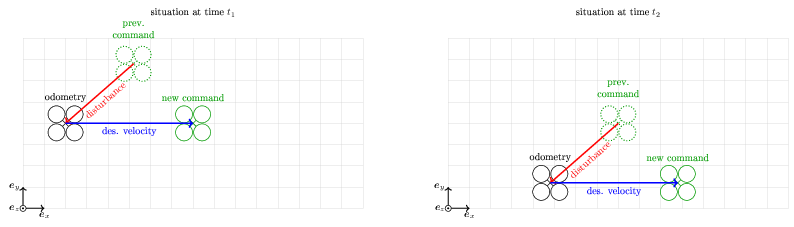
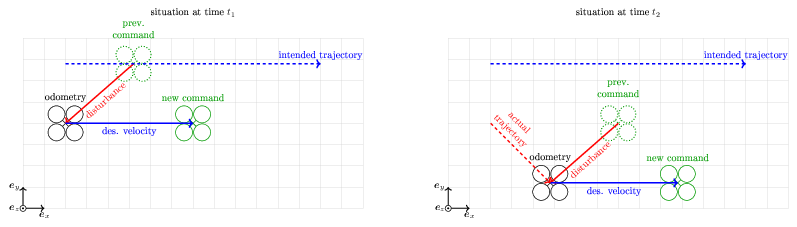
writing up the command setpoint frame problem

diff --git a/docs/system/fig/src/setpoint_frame_fig2.tex b/docs/system/fig/src/setpoint_frame_fig2.tex
@@ -94,6 +94,8 @@
     \node [align=center] at ($ (mo1) + (0, 0.3) $) {odometry};
     \node [green!60!black, align=center] at ($ (mc1) + (0, 0.4) $) {prev.\\command};
     \node [align=center, green!60!black] at ($ (mn1) + (0, 0.3) $) {new command};
+
+    \draw [blue, dashed, very thick, ->] (0.5, 1.7) -- ++(3, 0) node [blue, above] {intended trajectory};
   \end{scope}
   
   %%}
@@ -133,6 +135,9 @@
     \node [align=center] at ($ (mo1) + (0, 0.3) $) {odometry};
     \node [green!60!black, align=center] at ($ (mc1) + (0, 0.4) $) {prev.\\command};
     \node [align=center, green!60!black] at ($ (mn1) + (0, 0.3) $) {new command};
+
+    \draw [blue, dashed, very thick, ->] (0.5, 1.7) -- ++(3, 0) node [blue, above] {intended trajectory};
+    \draw [red, dashed, very thick, ->] (0.5, 1) -- (1.2, 0.3) node [red, midway, sloped, above, align=center, xshift=-0.8cm] {actual\\trajectory};
   \end{scope}
   
   %%}

diff --git a/docs/system/fig/src/setpoint_frame_fig.tex b/docs/system/fig/src/setpoint_frame_fig.tex
@@ -122,11 +122,11 @@
     \drawDrone{(mc2)}{0.1}{thick, dotted, draw=green!60!black}
     \draw [red, very thick, ->] (mc2) -- (mo2) node [midway, red, yshift=-0.3cm, sloped] {disturbance};
 
-    % \drawDrone{(3.6, 1.4)}{0.1}{thick, dotted, draw=green!60!black}
+    \drawDrone{(3.6, 1.4)}{0.1}{thick, dashed, draw=blue}
 
     \node [align=center] at ($ (mo2) + (0, 0.5) $) {odometry\\\textbf{=}\\new command};
     \node [green!60!black, align=center] at ($ (mc2) + (0, 0.4) $) {prev.\\command};
-    % \node [green!60!black, align=center] at (3.6, 1.8) {orig.\\command};
+    \node [blue, align=center] at (3.6, 1.8) {intended\\position};
   \end{scope}
   
   %%}
